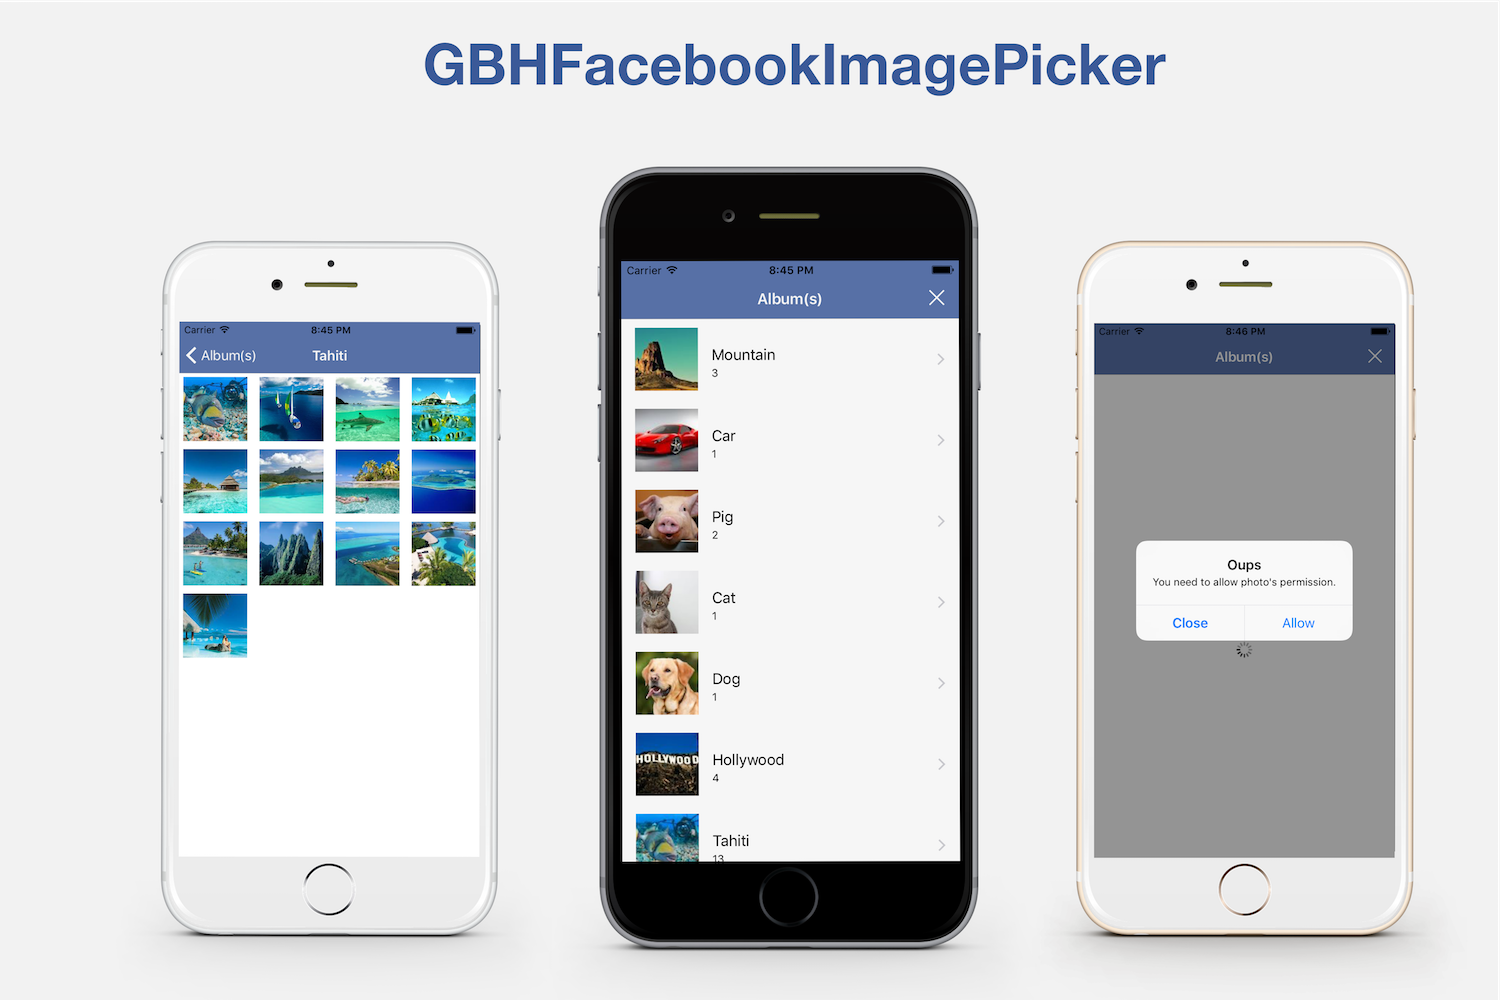
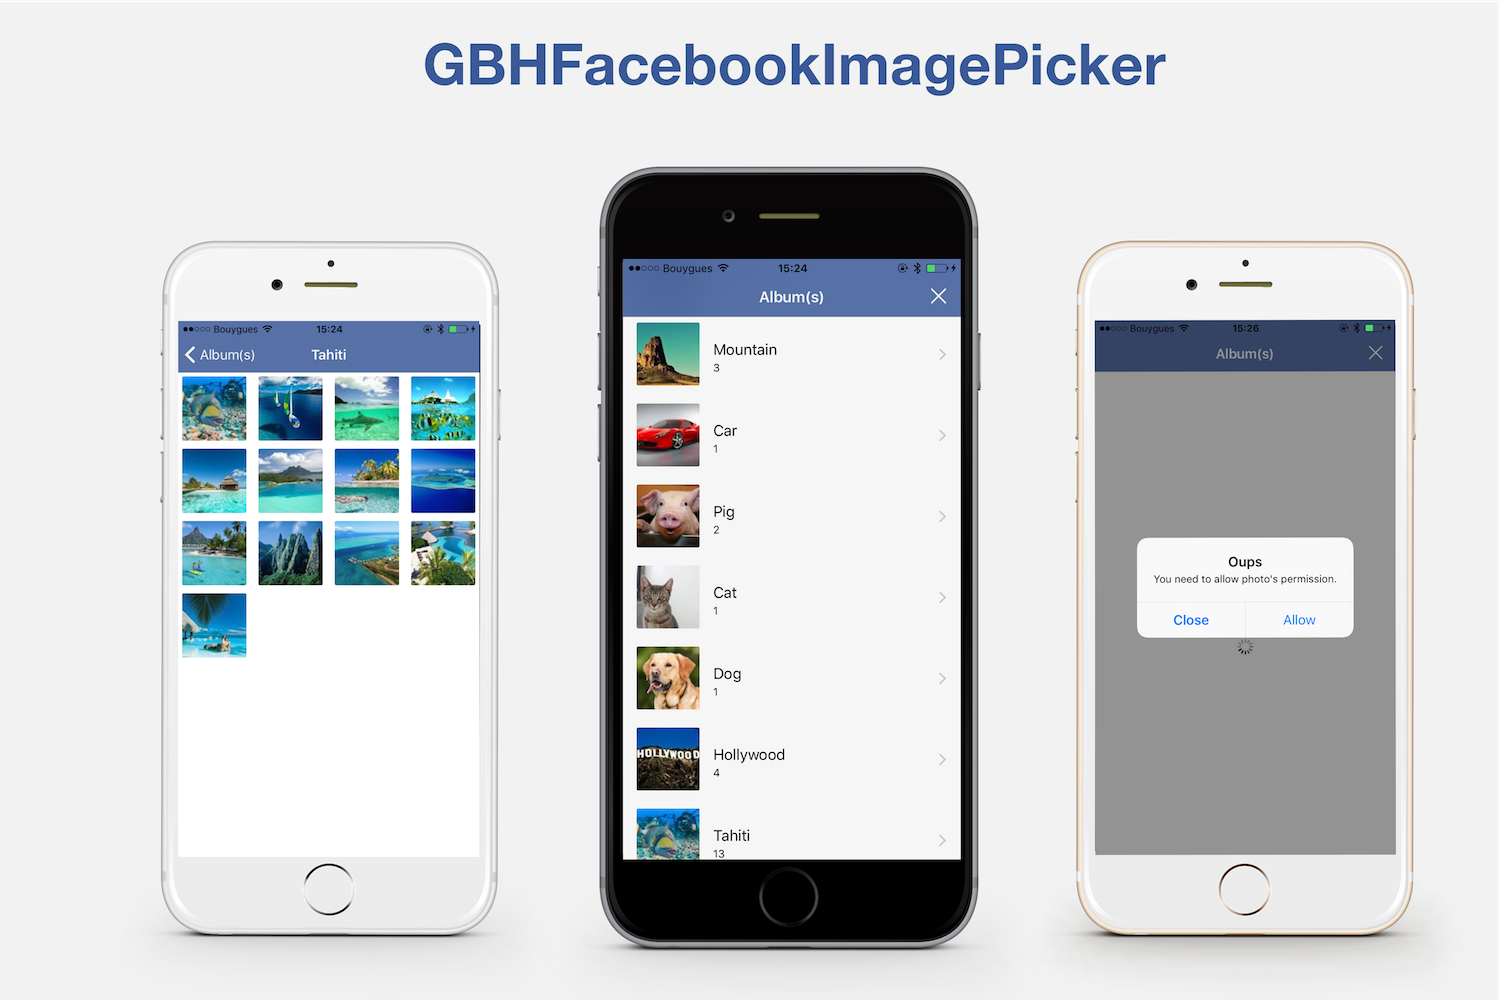
Image corner radius

diff --git a/GBHFacebookImagePicker/Classes/View/GBHAlbumTableViewCell.swift b/GBHFacebookImagePicker/Classes/View/GBHAlbumTableViewCell.swift
@@ -46,6 +46,7 @@ class GBHAlbumTableViewCell: UITableViewCell {
         self.photoImageView = GBHImageAsyncViewLoading(frame: CGRect(x: 15, y: 10, width: imageWidth, height: imageHeight))
         self.photoImageView?.contentMode = .scaleAspectFill
         self.photoImageView?.clipsToBounds = true
+        self.photoImageView?.layer.cornerRadius = GBHAppearanceManager.pictureCornerRadius
         if let imgView = self.photoImageView {
             self.contentView.addSubview(imgView)
         }

diff --git a/GBHFacebookImagePicker/Classes/View/GBHPhotoCollectionViewCell.swift b/GBHFacebookImagePicker/Classes/View/GBHPhotoCollectionViewCell.swift
@@ -38,6 +38,7 @@ class GBHPhotoCollectionViewCell: UICollectionViewCell {
         self.albumImageView = GBHImageAsyncViewLoading(frame: CGRect(x: 0, y: 0, width: 80, height: 80))
         self.albumImageView?.contentMode = .scaleAspectFill
         self.albumImageView?.clipsToBounds = true
+        self.albumImageView?.layer.cornerRadius = GBHAppearanceManager.pictureCornerRadius
         if let imgView = self.albumImageView {
             self.contentView.addSubview(imgView)
         }

diff --git a/GBHFacebookImagePicker/Classes/Model/GBHAppearanceManager.swift b/GBHFacebookImagePicker/Classes/Model/GBHAppearanceManager.swift
@@ -36,4 +36,6 @@ class GBHAppearanceManager: NSObject {
     static let whiteCustom = UIColor(red: 246/255.0, green: 246/255.0, blue: 246/255.0, alpha: 1.0)
     static let facebookColor = UIColor(red: 59/255.0, green: 89/255.0, blue: 152/255.0, alpha: 1.0)
     static let black = UIColor.black
+    
+    static let pictureCornerRadius: CGFloat = 2.0
 }
